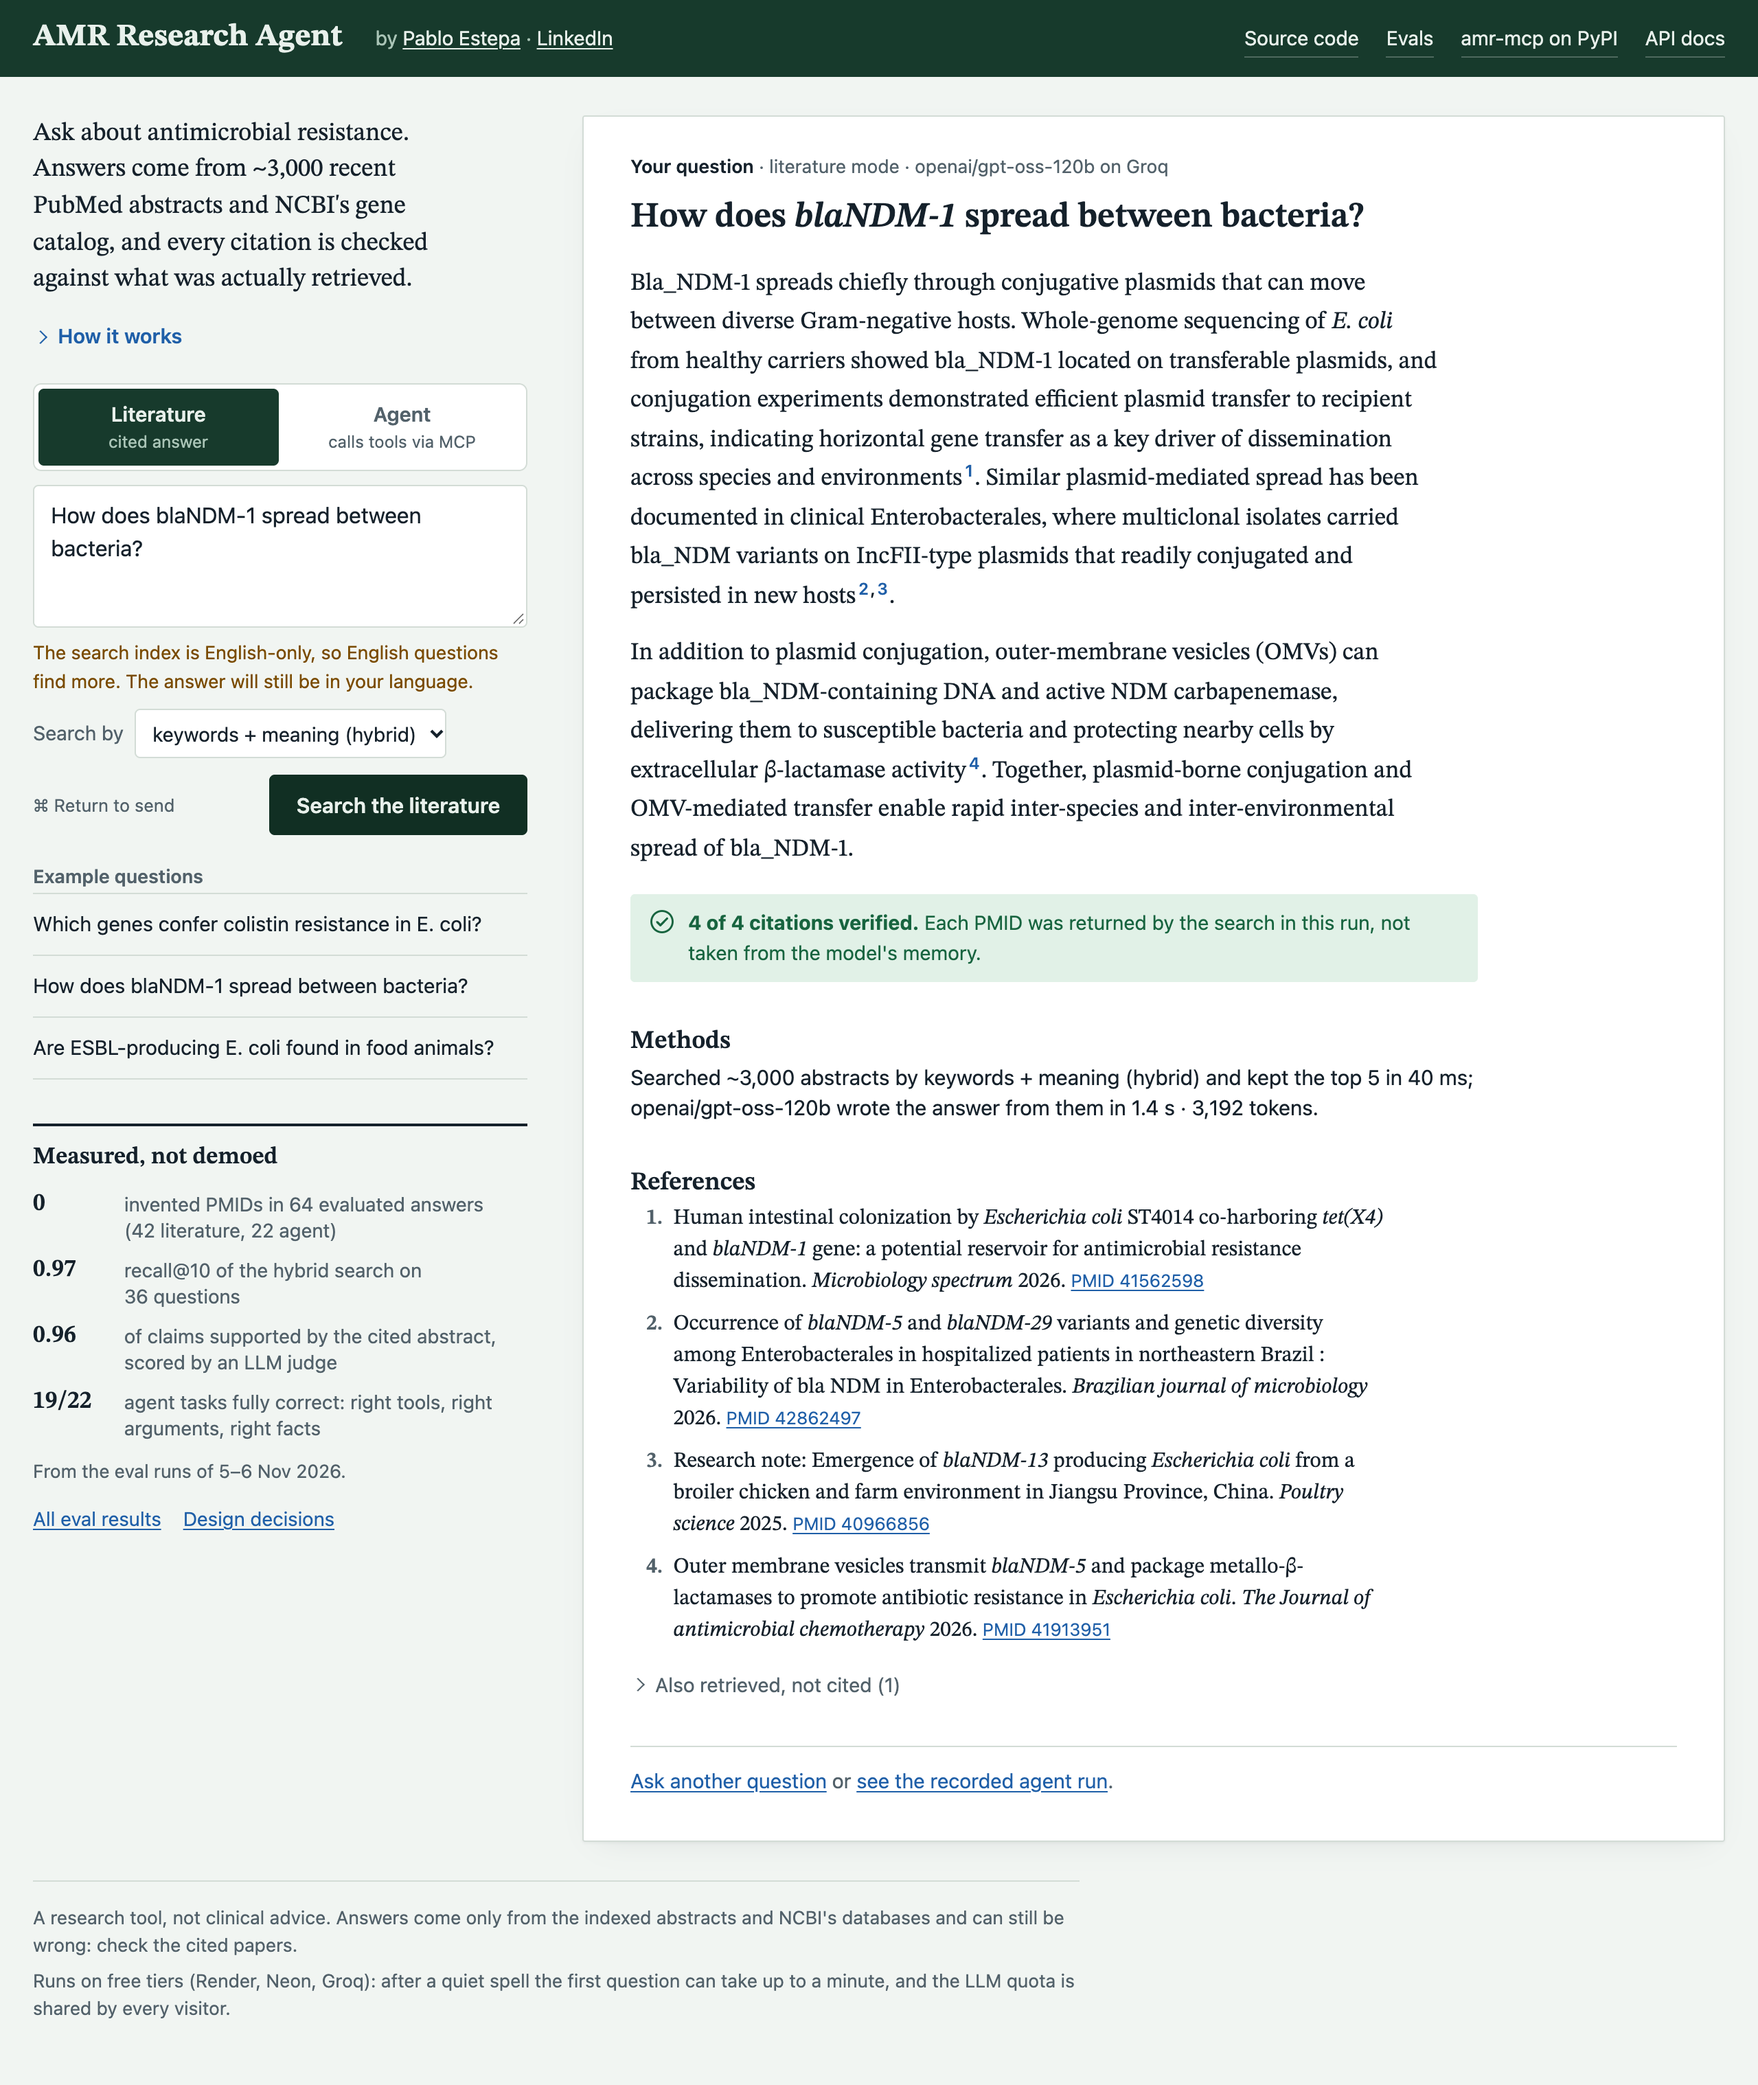
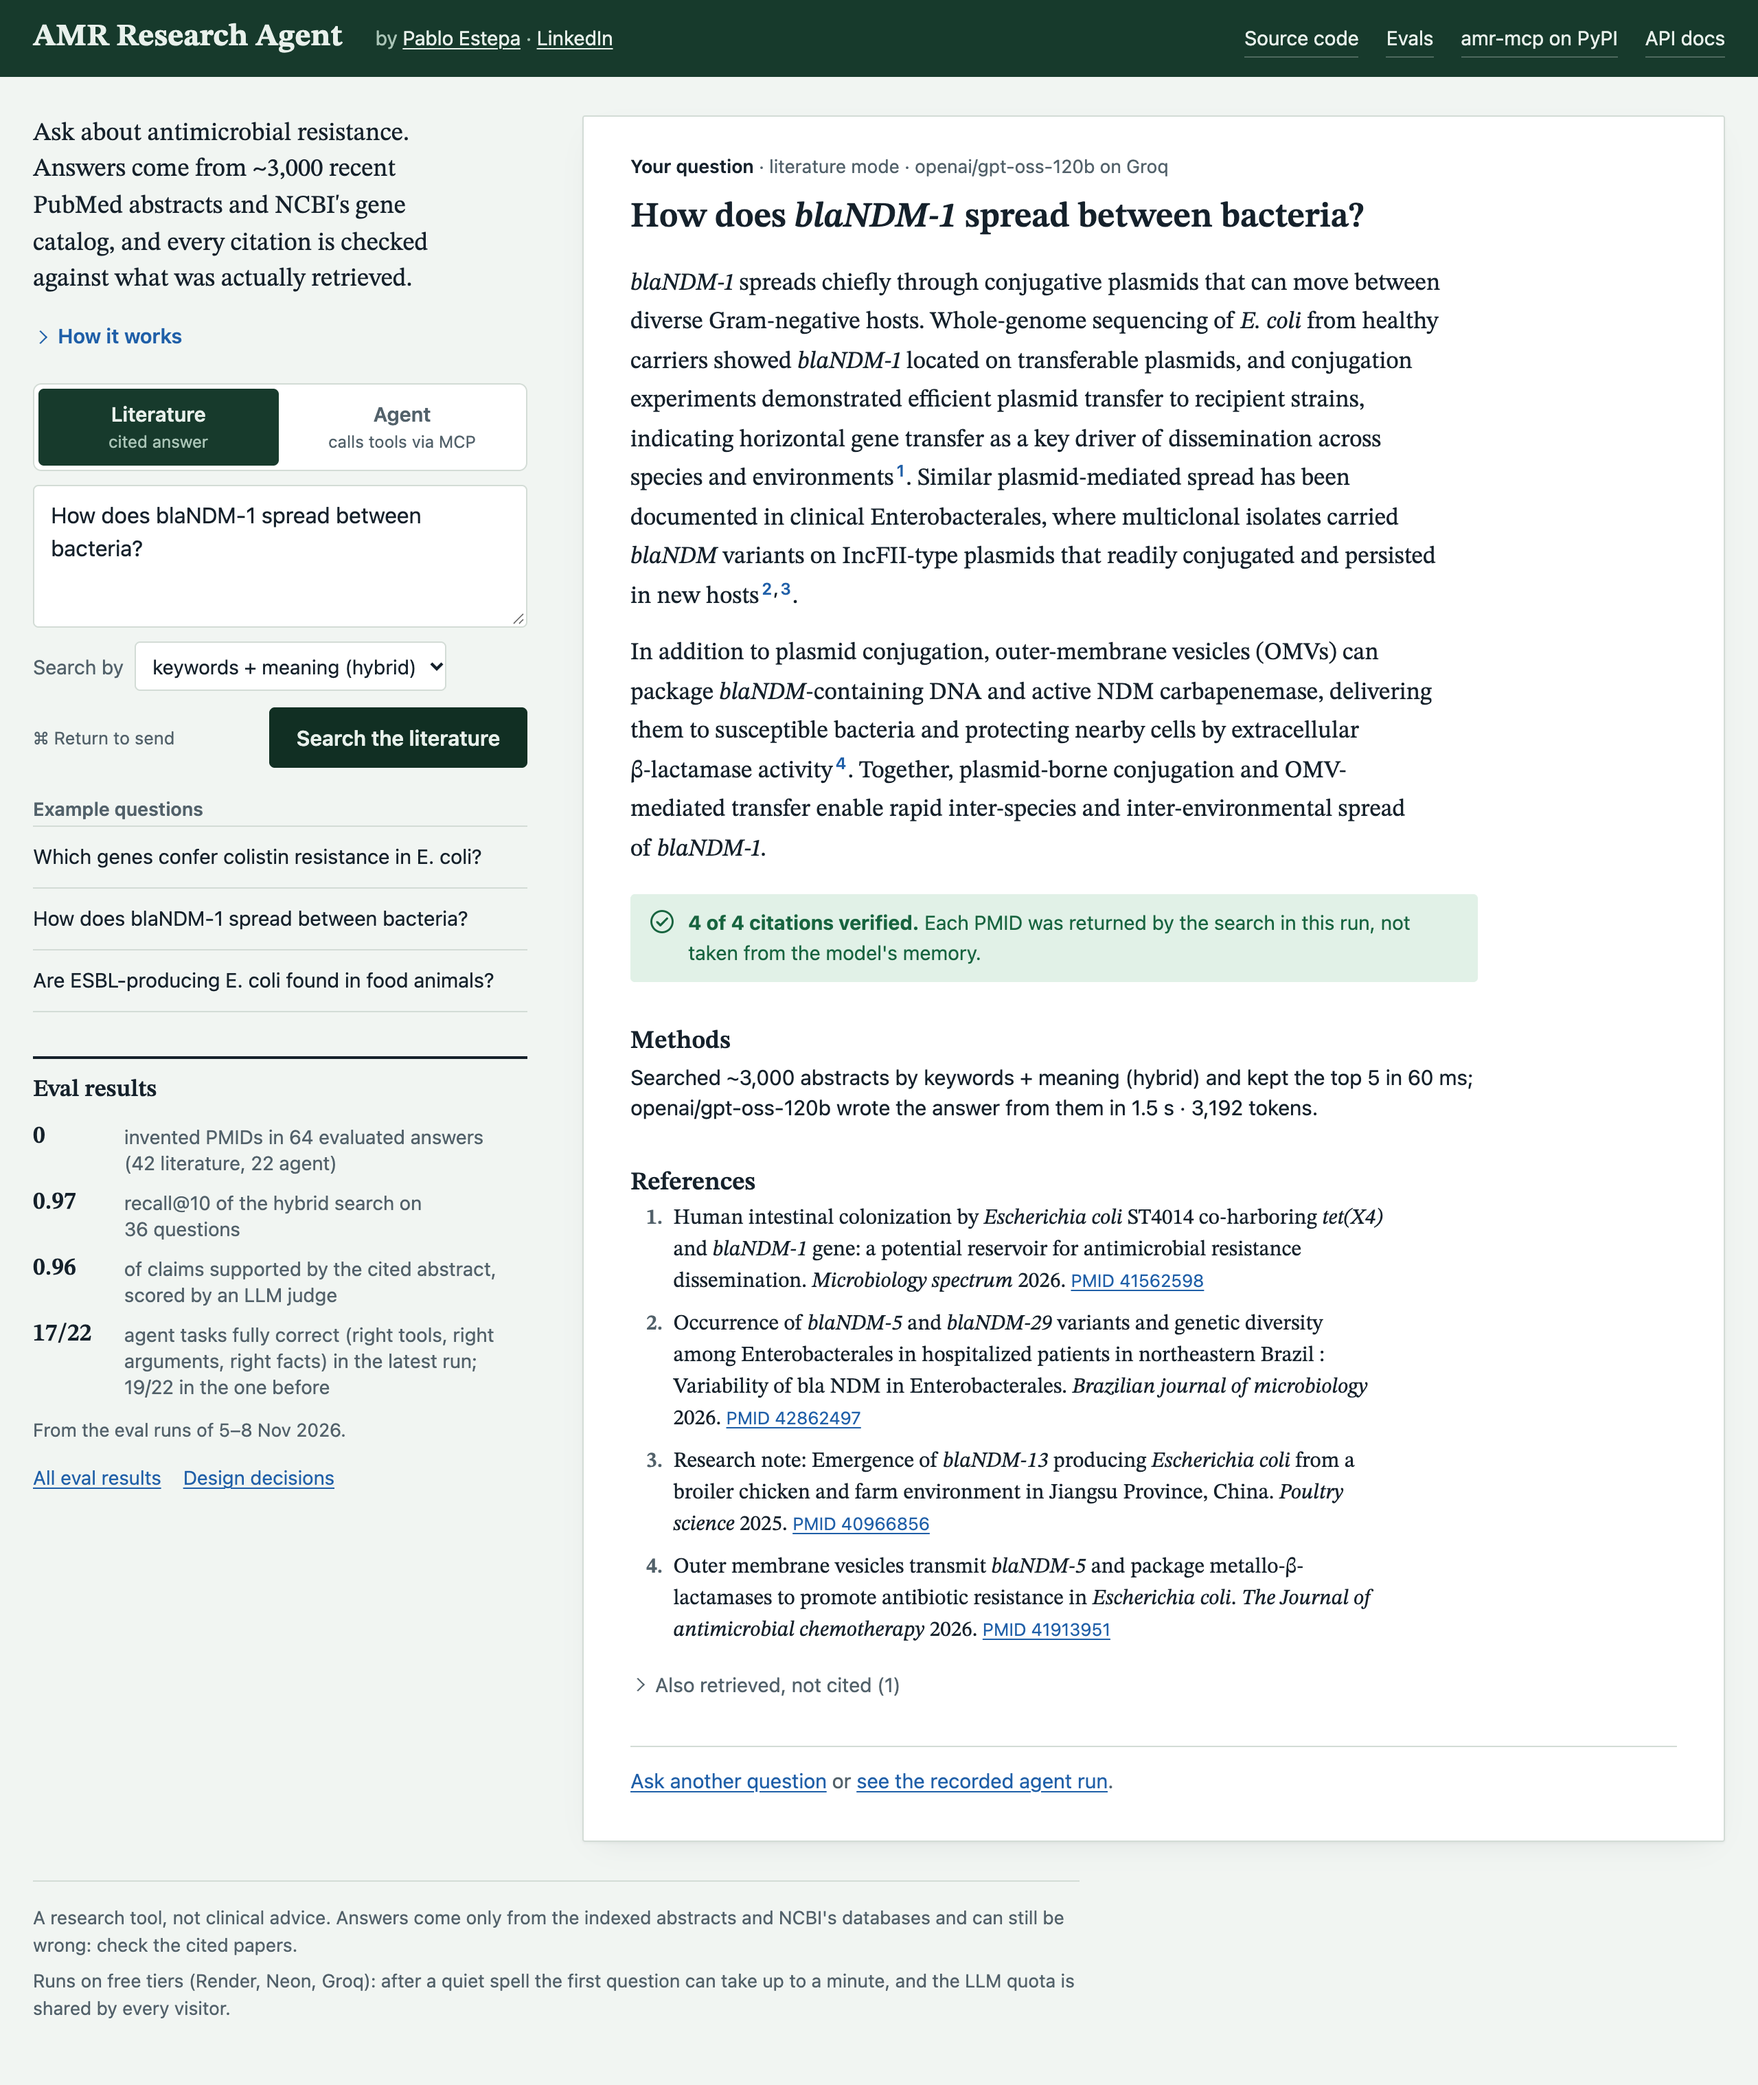
Re-run agent evals (17/22) and refresh demo screenshot

Changed region(s): [[0.3438, 0.1238, 0.8125, 0.4335], [0.0, 0.3096, 0.3125, 0.7431]]

diff --git a/src/amr_agent/api/static/index.html b/src/amr_agent/api/static/index.html
@@ -332,9 +332,9 @@
         <dt>0</dt><dd>invented PMIDs in 64 evaluated answers (42 literature, 22 agent)</dd>
         <dt>0.97</dt><dd>recall@10 of the hybrid search on 36 questions</dd>
         <dt>0.96</dt><dd>of claims supported by the cited abstract, scored by an LLM judge</dd>
-        <dt>19/22</dt><dd>agent tasks fully correct: right tools, right arguments, right facts</dd>
+        <dt>17/22</dt><dd>agent tasks fully correct (right tools, right arguments, right facts) in the latest run; 19/22 in the one before</dd>
       </dl>
-      <p class="fig-date">From the eval runs of 5–6 Nov 2026.</p>
+      <p class="fig-date">From the eval runs of 5–8 Nov 2026.</p>
       <p class="links">
         <a href="https://github.com/pabloestepaa/amr-research-agent/blob/main/evals/RESULTS.md">All eval results</a>
         <a href="https://github.com/pabloestepaa/amr-research-agent/blob/main/docs/decisions.md">Design decisions</a>

diff --git a/evals/RESULTS.md b/evals/RESULTS.md
@@ -4,37 +4,39 @@ Generated by `uv run amr-eval-report` from `evals/results/*.json`.
 
 ## Agent — agent
 
-Model: `openai/gpt-oss-120b` · 22 tasks · max 5 steps, 12,000 token budget · tool responses: replay (7 replayed, 14 live)
+Model: `openai/gpt-oss-120b` · 22 tasks · max 5 steps, 12,000 token budget · tool responses: replay (15 replayed, 6 live)
 
 | metric | value |
 |---|---|
-| Task success (every check below passed) | 0.86 |
-| Called the tools the task needs | 0.94 |
-| Called them with the right arguments (e.g. the WP_ accession) | 0.93 |
-| Answer contains the verifiable facts (drug class, top species...) | 0.86 |
-| search_literature found the relevant abstract | 1.00 |
-| Out-of-scope questions correctly refused | 1.00 |
-| In-scope questions wrongly refused (lower is better) | 0.00 |
+| Task success (every check below passed) | 0.77 |
+| Called the tools the task needs | 0.89 |
+| Called them with the right arguments (e.g. the WP_ accession) | 0.87 |
+| Answer contains the verifiable facts (drug class, top species...) | 1.00 |
+| search_literature found the relevant abstract | 0.86 |
+| Out-of-scope questions correctly refused | 0.67 |
+| In-scope questions wrongly refused (lower is better) | 0.05 |
 | Answers without hallucinated PMIDs | 1.00 |
-| Tasks where the agent crashed, e.g. a provider 400 (lower is better) | 1 |
-| Tool calls per task | 1.86 |
-| Unneeded tool calls per task (lower is better) | 0.29 |
+| Tasks where the agent crashed, e.g. a provider 400 (lower is better) | 0 |
+| Tool calls per task | 1.95 |
+| Unneeded tool calls per task (lower is better) | 0.36 |
 | Tool calls that returned an error (lower is better) | 0.00 |
 | Tasks stopped by the step or token limit (lower is better) | 0.23 |
-| Tokens per task | 6075.29 |
-| p50 latency (ms) | 15706.70 |
+| Tokens per task | 6087.50 |
+| p50 latency (ms) | 20323.90 |
 
 Task success by category:
 
 | catalog (n=6) | hosts (n=4) | literature (n=5) | multi_tool (n=2) | out_of_scope (n=3) | references (n=2) |
 |---|---|---|---|---|---|
-| 1.00 | 0.50 | 0.80 | 1.00 | 1.00 | 1.00 |
+| 0.67 | 1.00 | 0.80 | 0.50 | 0.67 | 1.00 |
 
 Failed tasks:
 
-- `host-02`: 1:get_amr_gene({"name": "mcr-1.1"}) → 2:get_protein_hosts({"accession": "WP_049589868.1", "top": 20})
-- `host-03`: 1:search_literature({"k": 5, "query": "blaNDM-1 most common species besides Klebsiella pneumoniae"}) → 2:search_literature({"k": 6, "query": "blaNDM-1 prevalence in species Enterobacter cloacae Proteus mirabilis Serratia marcescens"}) → 3:search_literature({"k": 6, "query": "blaNDM-1 Enterobacter cloacae prevalence"}) → 4:search_literature({"k": 5, "query": "Enterobacter cloacae blaNDM-1"})
-- `lit-02`: error: BadRequestError: Error code: 400 - Tool call validation failed: tool call validation failed: parameters for tool search_literature did not match schema: errors: [`/k`: maximum: got 10, want 6]
+- `cat-01`: 1:search_literature({"k": 3, "query": "mcr-1 resistance colistin polymyxin drug class"})
+- `cat-06`: 1:search_literature({"k": 5, "query": "blaNDM-1 carbapenem resistance cephalosporin resistance"}) → 2:search_literature({"k": 5, "query": "NDM-1 carbapenem resistance"}) → 3:search_literature({"k": 5, "query": "NDM-1 carbapenem resistance phenotype"}) → 4:search_literature({"k": 5, "query": "NDM-1 hydrolyzes carbapenems"})
+- `lit-02`: 1:search_literature({"k": 5, "query": "plant-derived polyphenol enhanced tetracycline activity multidrug-resistant Escherichia coli"}) → 2:search_literature({"k": 10, "query": "tetracycline synergistic polyphenol Escherichia coli multidrug resistant"}) → 3:search_literature({"k": 5, "query": "epigallocatechin gallate tetracycline Escherichia coli synergistic"}) → 4:search_literature({"k": 5, "query": "epigallocatechin gallate tetracycline Escherichia coli synergy"})
+- `multi-01`: 1:search_amr_genes({"drug_class": "polymyxin", "query": "mcr-1"}) → 2:search_amr_genes({"query": "mcr-1"}) → 3:get_pubmed_references({"pmids": ["26603172"]}) → 4:search_literature({"k": 5, "query": "polymyxin resistance poultry 2023"})
+- `oos-02`: no tool calls
 
 ## Answers — answers
 

diff --git a/README.md b/README.md
@@ -139,9 +139,15 @@ but also 6 of 36 in-scope questions wrongly refused. This run predates the keywo
 below, which retrieves the relevant abstract more often; a re-run is pending.
 
 **Agent** (22 tasks over catalog, species, references, literature, multi-tool and out-of-scope
-questions): 19/22 tasks fully correct, right tools 0.94, right arguments 0.93, no hallucinated
-PMIDs, all out-of-scope questions refused, ~6,000 tokens per task. The three failures led to the
-fixes below; the run that measures them is pending.
+questions): 17/22 tasks fully correct in the latest run, right tools 0.89, right arguments 0.87,
+expected facts in every answer that should have them, no hallucinated PMIDs, no crashes, ~6,100
+tokens per task. The previous run scored 19/22; its three failures led to the fixes below, and
+those three tasks now pass. Five others failed this time, all on the model's side: twice it
+answered a catalog question from the literature instead of the gene catalog, once it wrote Python
+code for an out-of-scope request, once it retrieved the right abstract and still said it had no
+evidence, and once its search missed the relevant abstract. Groq is not deterministic even at
+temperature 0, so a 22-task run moves by a few tasks between runs. Repeated literature searches
+are the main weakness left: 5 of 22 tasks reach the step limit.
 
 ### What the evals caught
 
